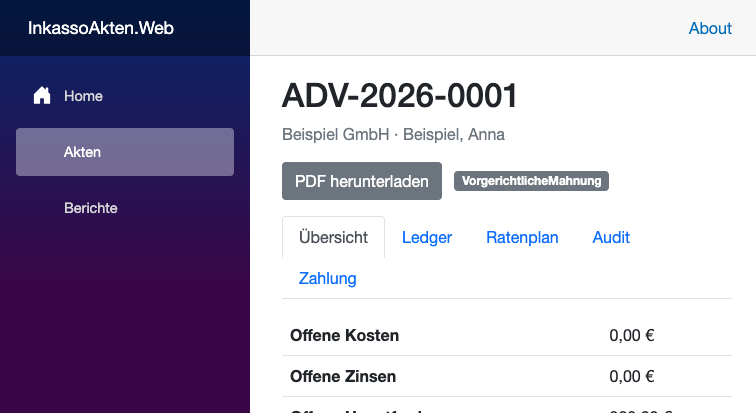
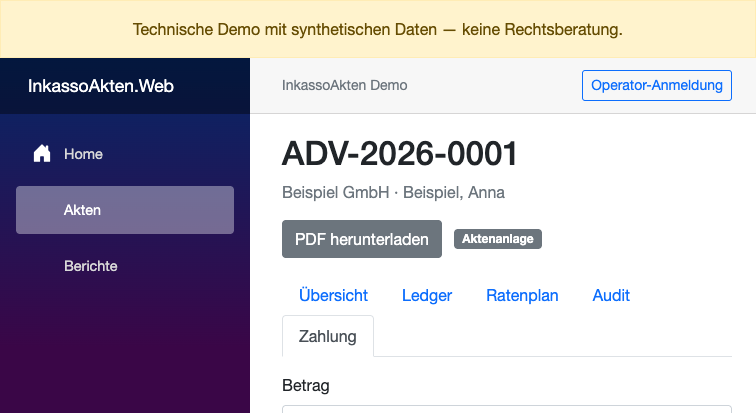
Fix antiforgery key collision; add Phase 4C verification

diff --git a/README.md b/README.md
@@ -88,6 +88,30 @@ Integration tests require a SQL Server instance. The fixture uses Testcontainers
 - [docs/database.md](docs/database.md)
 - [docs/decisions.md](docs/decisions.md)
 
+## Browser Verification (Phase 4C)
+
+Verified against an isolated SQL Server database (`InkassoBrowserVerify`) with synthetic seed data only. No shared application database was mutated.
+
+- `/akten` loads 5 synthetic cases; demo banner visible.
+- Case detail, ledger, aging report (`/berichte`), and PDF download (`/api/akten/{id}/pdf`) work anonymously.
+- Payment preview computes the § 367 BGB allocation (costs → interest → principal) without persisting.
+- Anonymous payment posting and state changes are rejected; UI shows "Zahlung verbuchen erfordert Operator-Anmeldung."
+- Operator login form carries and validates an antiforgery token.
+- Valid operator login enables posting; a 50,00 € payment updated balance, ledger, and audit trail.
+- Overpayment is rejected with "Payment exceeds outstanding balance."
+- State transition (Aktenanlage → VorgerichtlicheMahnung) succeeded with "Aktion ausgeführt."
+- Logout removes write access; after logout the payment form shows the login-required notice.
+- Login rate limit: 5 requests pass, 6th returns 429.
+- PDF rate limit: 30 requests pass, 31st returns 429.
+- Both limits use a fixed window per endpoint (global per server instance, not per user/session).
+
+Known limitations:
+- `AuthenticationStateChanged` updates the in-circuit operator flag on login/logout, but it does not automatically revalidate cookie expiry or cross-tab logout. A stale circuit may retain the operator flag until reloaded.
+- Blazor prerendering persisted antiforgery tokens under a shared key, causing a collision when both `MainLayout` and `Login` rendered; fixed by using distinct persistence keys (`logoutAntiforgeryToken` vs `antiforgeryToken`).
+- DevExpress is not implemented (standard Blazor components only).
+- QuestPDF Community license; commercial eligibility must be verified before commercial use.
+- Full UI repeated-click protection beyond disabled submit buttons is not verified.
+
 ## Legal / Demo Limitations
 
 This repository is a technical demonstration. It is not legal advice, not a production debt-collection system, and must not be used to make enforceable claims without qualified legal review. Synthetic seed data only.
